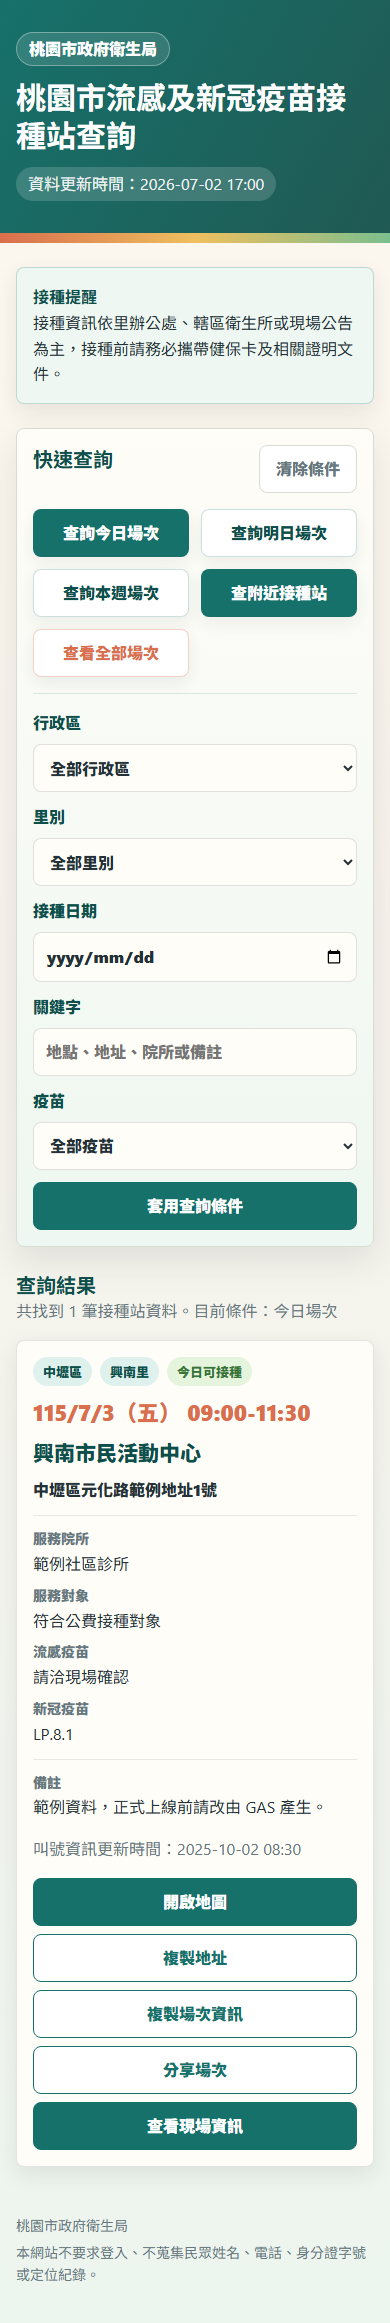
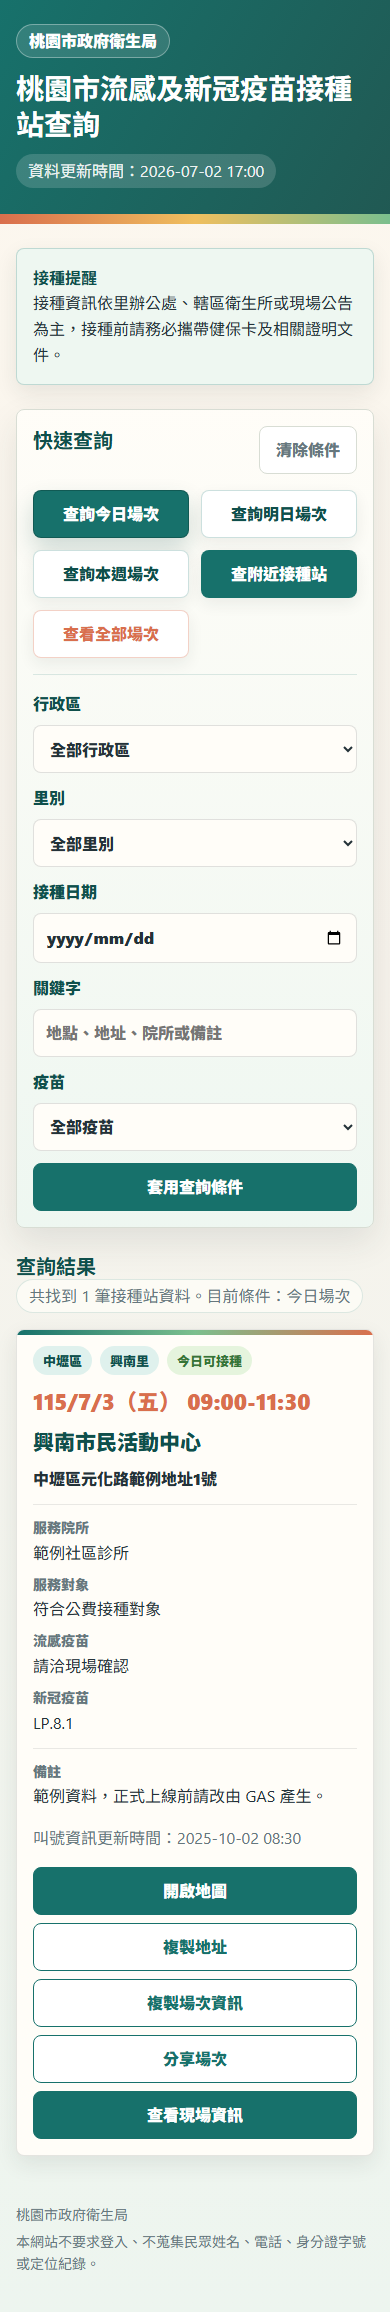
[民眾端查詢] feat：補強公開查詢互動質感

Changed region(s): [[0.0, 0.0, 1.0, 0.9343], [0.8308, 0.4048, 0.8615, 0.436], [0.1846, 0.9654, 0.2154, 0.9965]]

diff --git a/流感及新冠疫苗社區設站網站/public/styles.css b/流感及新冠疫苗社區設站網站/public/styles.css
@@ -112,8 +112,8 @@ a:focus-visible {
   position: relative;
   display: grid;
   gap: var(--space-5);
-  min-height: 208px;
-  padding: var(--space-6) var(--space-4) calc(var(--space-6) + 10px);
+  min-height: 190px;
+  padding: var(--space-5) var(--space-4) calc(var(--space-5) + 12px);
 }
 
 .hero-copy {
@@ -142,7 +142,7 @@ p {
 
 h1 {
   margin-bottom: var(--space-3);
-  font-size: 30px;
+  font-size: 28px;
   line-height: 1.28;
 }
 
@@ -159,6 +159,16 @@ h2 {
 .meta,
 .field-name {
   color: var(--color-muted);
+}
+
+.summary {
+  display: inline-flex;
+  min-height: 32px;
+  align-items: center;
+  border: 1px solid rgba(23, 113, 107, 0.14);
+  border-radius: 999px;
+  background: rgba(255, 253, 248, 0.72);
+  padding: 3px 12px;
 }
 
 .site-header .updated {
@@ -294,9 +304,15 @@ h2 {
 }
 
 .quick-actions button:first-child,
-.quick-actions button:nth-child(4) {
+.quick-actions button:nth-child(4),
+.quick-actions button.is-active {
   background: var(--color-primary);
   color: #fff;
+}
+
+.quick-actions button.is-active {
+  border-color: rgba(15, 79, 75, 0.72);
+  box-shadow: 0 12px 24px rgba(15, 79, 75, 0.20);
 }
 
 .quick-actions button.secondary {
@@ -364,18 +380,45 @@ select:focus {
   border-left: 5px solid var(--color-primary);
 }
 
+.empty-state {
+  display: grid;
+  gap: var(--space-3);
+}
+
+.empty-mark {
+  width: 48px;
+  height: 48px;
+  border: 10px solid var(--color-primary-soft);
+  border-radius: 999px;
+  background:
+    linear-gradient(90deg, transparent 42%, var(--color-accent) 42% 58%, transparent 58%),
+    linear-gradient(0deg, transparent 42%, var(--color-accent) 42% 58%, transparent 58%),
+    #fffdf8;
+  box-shadow: 0 8px 18px rgba(31, 47, 43, 0.08);
+}
+
 .card-list {
   display: grid;
   gap: var(--space-4);
 }
 
 .site-card {
+  position: relative;
+  overflow: hidden;
   border: 1px solid rgba(36, 50, 56, 0.12);
   border-radius: 8px;
   background: var(--color-surface);
   box-shadow: var(--shadow-card);
   padding: var(--space-4);
   transition: transform 160ms ease, box-shadow 160ms ease, border-color 160ms ease;
+}
+
+.site-card::before {
+  position: absolute;
+  inset: 0 0 auto;
+  height: 5px;
+  background: linear-gradient(90deg, var(--color-primary), #7bbf8e, var(--color-accent));
+  content: "";
 }
 
 .site-card:hover {

diff --git a/流感及新冠疫苗社區設站網站/public/app.js b/流感及新冠疫苗社區設站網站/public/app.js
@@ -36,6 +36,7 @@ async function init() {
 
 function bindEvents() {
   document.querySelectorAll("[data-action]").forEach((button) => {
+    button.setAttribute("aria-pressed", "false");
     button.addEventListener("click", () => handleQuickAction(button.dataset.action));
   });
 
@@ -197,8 +198,17 @@ function render() {
   state.filteredSites = sites;
   elements.resultSummary.textContent = buildSummary(sites, filters);
   elements.cardList.innerHTML = sites.length ? sites.map(cardHtml).join("") : emptyStateHtml();
+  syncQuickActionState();
   bindCardActions();
   bindEmptyStateActions();
+}
+
+function syncQuickActionState() {
+  document.querySelectorAll("[data-action]").forEach((button) => {
+    const isActive = button.dataset.action === state.quickMode;
+    button.classList.toggle("is-active", isActive);
+    button.setAttribute("aria-pressed", String(isActive));
+  });
 }
 
 function readFilters() {
@@ -471,9 +481,12 @@ function buildSummary(sites, filters) {
 
 function emptyStateHtml() {
   return `
-    <div class="status-message info">
-      <strong>目前查無符合條件的接種站資料。</strong>
-      <p>您可以清除篩選條件，或改查其他日期、行政區。</p>
+    <div class="status-message info empty-state">
+      <span class="empty-mark" aria-hidden="true"></span>
+      <div>
+        <strong>目前查無符合條件的接種站資料。</strong>
+        <p>您可以清除篩選條件，或改查其他日期、行政區。</p>
+      </div>
       <div class="empty-actions">
         <button type="button" class="secondary" data-empty-action="reset">清除條件</button>
         <button type="button" data-empty-action="week">查看本週場次</button>

diff --git a/流感及新冠疫苗社區設站網站/version.py b/流感及新冠疫苗社區設站網站/version.py
@@ -1,3 +1,3 @@
-VERSION = "0.49.0"
+VERSION = "0.50.0"
 PROJECT_NAME = "流感及新冠疫苗社區設站網站"
 UPDATED_AT = "2026-07-03"

diff --git a/流感及新冠疫苗社區設站網站/docs/AI_HANDOVER.md b/流感及新冠疫苗社區設站網站/docs/AI_HANDOVER.md
@@ -344,6 +344,7 @@ python -m http.server 5173 -d public
 53. 線上部署後檢查新增 5 項安全回歸驗收：外開連結、inline handler、空狀態按鈕、快取標頭與首頁個資聲明。
 54. 使用 `frontend-design` Skill 優化民眾端 UI，改為溫暖健康導覽風格，調整主視覺、色彩、查詢按鈕、篩選面板與結果卡片。
 55. 已將民眾端 UI 優化版重新部署至 Firebase Hosting；部署 commit `cd27ca1`，Firebase version `a8ced0f0356e3950`，release `1783044384575000`。
+56. 民眾端 UI 第 2 批細部優化：快速查詢按鈕會顯示目前選取狀態，查詢摘要改為膠囊式資訊，空狀態加視覺標記，結果卡片加頂部色帶，手機首屏間距調整。
 
 ## 14. 目前第一版功能狀態
 
@@ -405,6 +406,7 @@ python -m http.server 5173 -d public
 54. `scripts/online-check.mjs` 會檢查線上 `app.js` 外開連結、inline handler、空狀態按鈕、`Cache-Control: no-cache` 與首頁個資聲明。
 55. 民眾端 UI 目前採溫暖健康導覽視覺，`public/index.html` 保留原本資料綁定 ID，主要樣式集中於 `public/styles.css`。
 56. `docs/DEPLOYMENT_RECORD.md` 已記錄民眾端 UI 優化版 Firebase Hosting 重新部署資訊。
+57. `public/app.js` 的 `syncQuickActionState()` 會同步快速查詢按鈕的 `is-active` 與 `aria-pressed`，只影響 UI 狀態，不改查詢條件邏輯。
 
 ### 尚需實機驗證
 

diff --git a/流感及新冠疫苗社區設站網站/docs/TEST_EXECUTION_RECORD.md b/流感及新冠疫苗社區設站網站/docs/TEST_EXECUTION_RECORD.md
@@ -22,6 +22,7 @@
 | GAS 與核心邏輯本機檢查 | `node scripts/local-check.mjs` | 通過 | 不連線 Google Sheet 或 Firebase |
 | 民眾端 RWD 檢查 | `node scripts/rwd-check.mjs` | 通過 | 已產生手機與桌機截圖 |
 | 民眾端新版 UI 截圖驗收 | `node scripts/rwd-check.mjs` + 截圖人工檢視 | 通過 | 使用 `frontend-design` Skill 優化後，手機與桌機截圖無文字重疊或裁切 |
+| 民眾端 UI 第 2 批細節驗收 | `node scripts/local-check.mjs`、`node scripts/rwd-check.mjs` | 通過 | 檢查快速查詢選取狀態、空狀態視覺標記與新版手機／桌機截圖 |
 | Firebase Hosting 線上檢查 | `node scripts/online-check.mjs` | 通過 | 檢查 `https://tychb-vaccineweb.web.app` 首頁、`public.json` 與 `app.js` |
 | 民眾端線上連結安全檢查 | `Invoke-WebRequest https://tychb-vaccineweb.web.app/app.js` | 通過 | 線上 `app.js` 含 `noopener noreferrer`、不含 `onclick=`，且具備 `data-empty-action` |
 | 線上部署後 5 項安全回歸檢查 | `node scripts/online-check.mjs` | 通過 | 檢查外開連結、inline handler、空狀態按鈕、快取標頭與首頁個資聲明 |

diff --git a/流感及新冠疫苗社區設站網站/CHANGELOG.md b/流感及新冠疫苗社區設站網站/CHANGELOG.md
@@ -1,5 +1,11 @@
 # Changelog
 
+## [0.50.0] - 2026-07-03
+
+### Changed
+
+- 民眾端 UI 第 2 批細部優化：快速查詢選取狀態、查詢摘要膠囊、空狀態視覺標記、結果卡片頂部色帶、手機首屏間距調整。
+
 ## [0.49.0] - 2026-07-03
 
 ### Added
